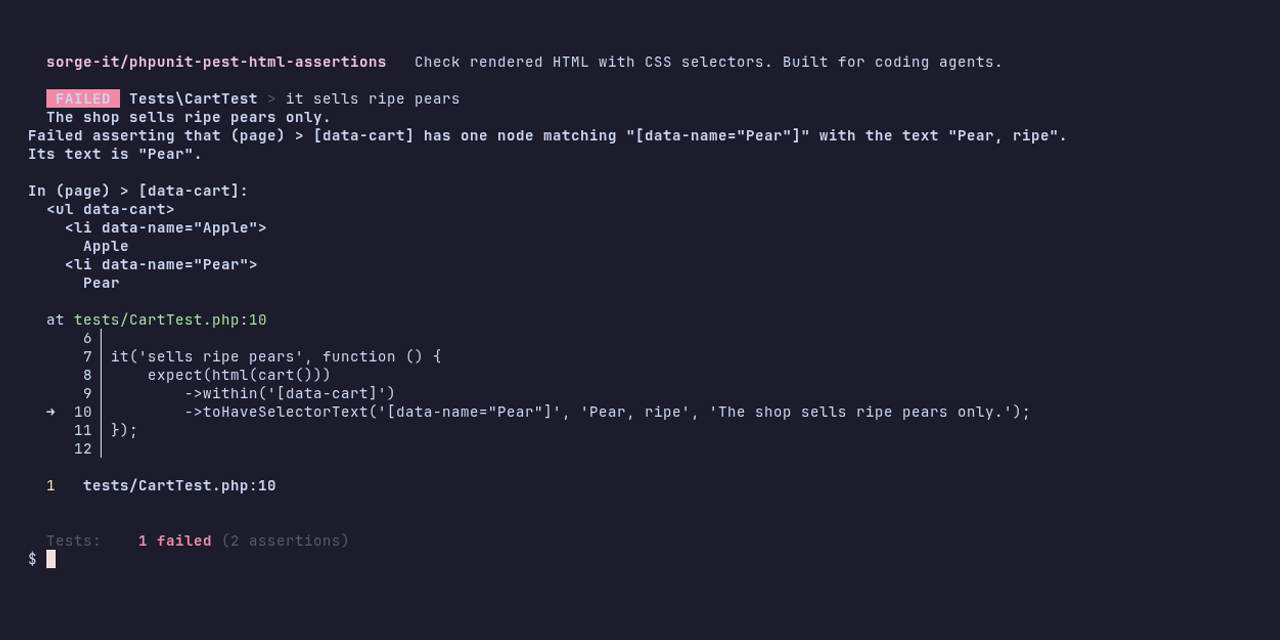
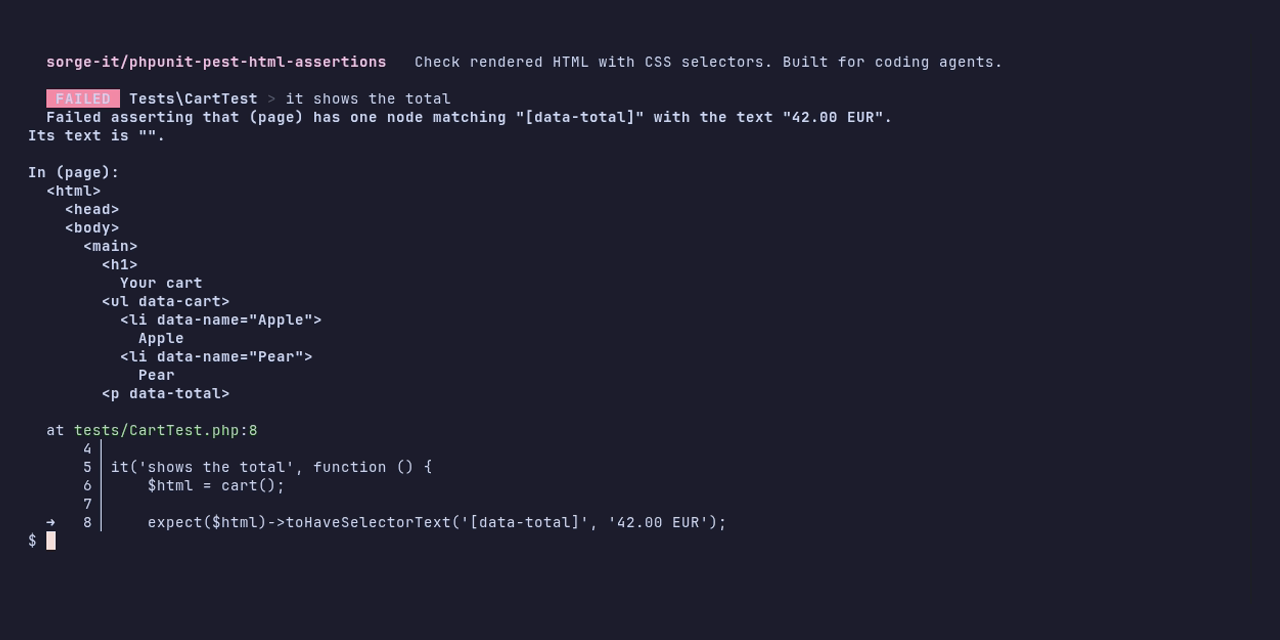
docs: tell why the package exists, and show a string check that stays green on a broken page (#7)
The demo cart has an empty total: the string check passes, PHPStan reports it, the check by selector fails at the test line. README, demo and CI show the same case.

diff --git a/demo/app/social.php b/demo/app/social.php
@@ -2,7 +2,7 @@
 
 declare(strict_types=1);
 
-// The screen of the social preview: the name, then the failure without Pest's header.
+// The screen of the social preview: the name, then the failure up to the line of the test.
 
 exec('vendor/bin/pest --colors=always tests/CartTest.php', $lines);
 
@@ -13,7 +13,7 @@ foreach ($lines as $line) {
         $failure[] = $line;
     }
 
-    if (str_contains($line, 'Tests:')) {
+    if (str_contains($line, '➜')) {
         break;
     }
 }

diff --git a/demo/app/cart.php b/demo/app/cart.php
@@ -2,7 +2,7 @@
 
 declare(strict_types=1);
 
-/** The page of a cart, as a view would render it. */
+/** The page of a cart, as a view renders it, with a bug: the total is empty. */
 function cart(): string
 {
     return <<<'HTML'
@@ -12,7 +12,7 @@ function cart(): string
             <li data-name="Apple">Apple</li>
             <li data-name="Pear">Pear</li>
           </ul>
-          <p data-total>42.00 EUR</p>
+          <p data-total></p>
         </main>
         HTML;
 }

diff --git a/demo/app/tests/CartTest.php b/demo/app/tests/CartTest.php
@@ -2,10 +2,8 @@
 
 declare(strict_types=1);
 
-use function SorgeIt\PhpunitPestHtmlAssertions\Pest\html;
+it('shows the total', function () {
+    $html = cart();
 
-it('sells ripe pears', function () {
-    expect(html(cart()))
-        ->within('[data-cart]')
-        ->toHaveSelectorText('[data-name="Pear"]', 'Pear, ripe', 'The shop sells ripe pears only.');
+    expect($html)->toHaveSelectorText('[data-total]', '42.00 EUR');
 });

diff --git a/demo/app/tests/StringTest.php b/demo/app/tests/StringTest.php
@@ -2,6 +2,8 @@
 
 declare(strict_types=1);
 
-it('sells ripe pears', function () {
-    expect(cart())->toContain('<li data-name="Pear">Pear, ripe</li>');
+it('shows the total', function () {
+    $html = cart();
+
+    expect($html)->toContain('data-total');
 });

diff --git a/README.md b/README.md
@@ -7,8 +7,9 @@
 [![PHP Version](https://img.shields.io/packagist/php-v/sorge-it/phpunit-pest-html-assertions)](composer.json)
 [![PHPStan](https://img.shields.io/badge/PHPStan-level%20max-brightgreen)](phpstan.neon)
 
-Check rendered HTML with CSS selectors, never as a string. Built for tests that AI coding agents
-write and run: in Laravel, Livewire, Symfony and TYPO3.
+**Your coding agent's tests are green, and the page is broken.** Agents check HTML the quickest
+way, as a string, and such a check passes by accident and fails for nothing. This package makes
+every check ask the DOM, and keeps your agent doing it.
 
 ```php
 expect($this->get('/cart'))
@@ -19,11 +20,49 @@ expect($this->get('/cart'))
 
 **Works with:** PHPUnit · Pest · Laravel · Livewire · Symfony · TYPO3 · PSR-7 · Laravel Boost · Claude Code · PHPStan · Rector
 
-![PHPStan reports a check of markup as a string; the check by selector fails and shows the region](https://raw.githubusercontent.com/sorge-it/phpunit-pest-html-assertions/main/demo/output/demo.gif)
+![A string check stays green on a broken page, PHPStan reports it, and the check by selector fails and shows the region](https://raw.githubusercontent.com/sorge-it/phpunit-pest-html-assertions/main/demo/output/demo.gif)
 
-PHPStan reports a check of markup as a string. The check by selector fails, names the region,
-gives the reason and shows the HTML of the region, at the line of the test. The demo is recorded
-from the app in [`demo/`](demo).
+The total on the cart page is empty. A string check stays green, PHPStan reports it, and the check
+by selector goes red at the line of the test and shows the HTML. The demo runs the app in
+[`demo/`](demo), and the CI runs it on every change.
+
+## Why this exists
+
+I hold my tests to one rule: green means the page works, red means it does not.
+
+Tests that read HTML as a string break that rule in both directions. One of mine went red because
+one more `<span>` wrapped a dot, and the page was fine. The other direction is worse:
+
+```php
+// The total is empty on the page. The test stays green:
+// it finds the marker, not the amount.
+expect($html)->toContain('data-total');
+
+// This one goes red and shows the region.
+expect($html)->toHaveSelectorText('[data-total]', '42.00 EUR');
+```
+
+A string check also passes when its text sits only in an attribute or a script. Some string checks
+test nothing at all. Some are green by luck.
+
+This matters more now than it used to. Coding agents produce code faster than anyone can click
+through it. Testing the UI by hand on every change costs too much, so in practice it does not
+happen. Browser tests are too slow and too heavy to cover every detail; they keep their job for
+JavaScript and CSS. That leaves the HTML the server renders, checked in a feature test. The agent
+writes these tests for almost nothing, and we need many of them. They only help if they are right.
+
+In one of my Laravel apps, I counted 502 lines in 53 test files that checked the page as a string.
+The agent had not done anything wrong. It had used the tools it had. So I gave it better ones:
+
+- before it writes, a [skill](#for-coding-agents) gives it the rules;
+- when it checks its work, [PHPStan](#phpstan) reports a check of markup as a string;
+- when a test fails, the [message](#when-a-check-fails) shows the region as HTML, at the line of
+  the test.
+
+The same app now runs 591 checks by CSS selector, and PHPStan stops a new string check of markup
+before it lands.
+
+I built this so I can trust a green test again. I hope it lets you trust yours.
 
 ## Installation
 
@@ -67,16 +106,6 @@ final class CartTest extends TestCase
 Every method of the trait starts with `assertHtml`. So the trait also works in a Symfony
 `WebTestCase`, which has its own `assertSelectorExists()` and similar methods.
 
-## Why
-
-Coding agents write many tests. Without help, they check HTML the way it is easiest to type:
-`assertSee('<span class="dot">')`, a regular expression over the markup. Those tests fail when one
-more `<span>` wraps a dot, though the page looks the same. And they pass when the text they look for
-sits only in an attribute or a script.
-
-This package reads the DOM instead. `symfony/dom-crawler` parses the page with `Dom\HTMLDocument`, as
-a browser does, and every check selects with CSS.
-
 ## Compared with
 
 | Tool | What it checks | The difference |
@@ -86,17 +115,6 @@ a browser does, and every check selects with CSS.
 | `sinnbeck/laravel-dom-assertions` | CSS selectors | Laravel's test responses, views and Livewire components; this package also reads Symfony, TYPO3 and PSR-7 responses and adds PHPStan rules |
 | Laravel Dusk, Pest's browser tests | a real browser | for JavaScript, CSS and clicks; slower. This package checks the HTML the server renders, in a unit or feature test |
 | HTML snapshots | the whole page | fail on every change; an update accepts the whole new page |
-
-## Built for coding agents
-
-The package acts at each step of the loop in which an agent writes a test:
-
-| Step | What acts |
-|---|---|
-| Before the agent writes | A [skill](#for-coding-agents) gives the agent the checks and the rules for selectors: through Laravel Boost, Claude Code or the `skills` CLI. Boost also adds a short guideline to every task. |
-| When the agent checks its work | The [PHPStan rules](#phpstan) `html.markupAsString` and `html.classAsString` report a check of markup or of a class as a string and say what to use instead. |
-| When a test fails | The [message](#when-a-check-fails) names the region, what was asked, what was found, and shows the HTML of the region. It points at the line of the test, not into this package. The agent can fix the test without a browser. |
-| In an existing suite | A [Rector rule](#rector) rewrites the mechanical forms of crawler code. |
 
 ## Requirements
 
